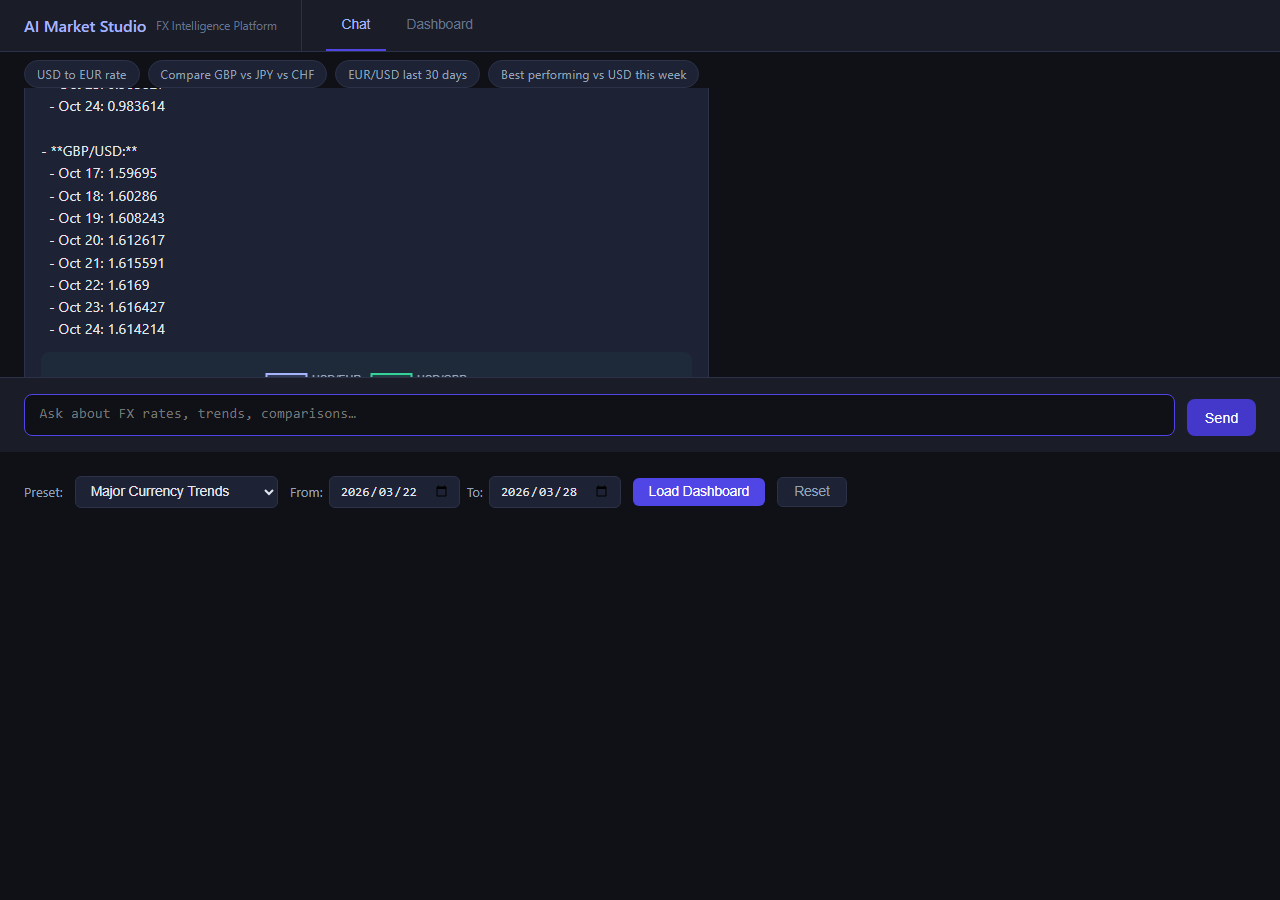
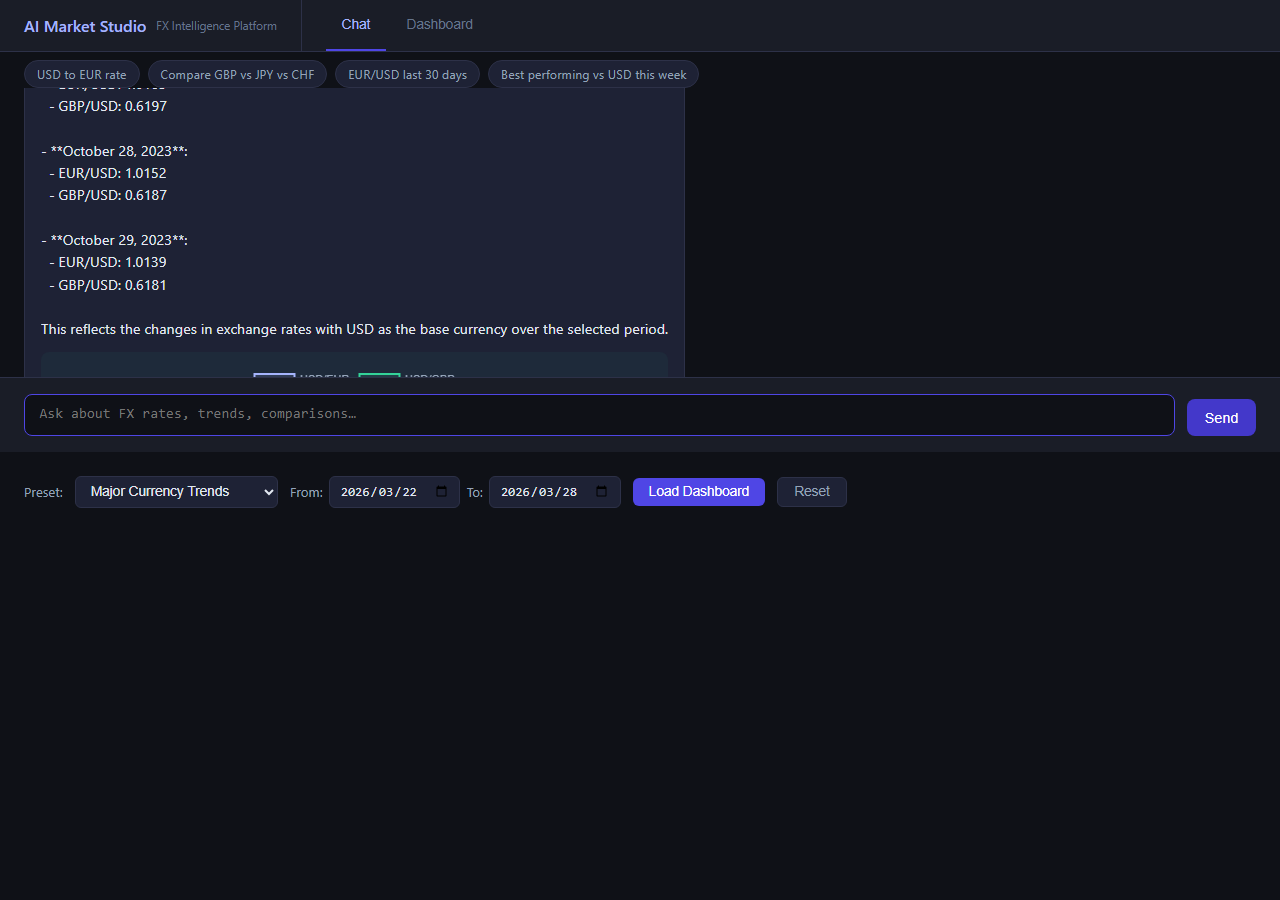
Docs: update Feature 04 example to 5-day query, refresh screenshot

Changed region(s): [[0.0312, 0.0933, 0.5625, 0.4356], [0.0312, 0.0933, 0.125, 0.1244]]

diff --git a/README.md b/README.md
@@ -23,7 +23,7 @@ A conversational FX market data platform. Ask natural-language questions about e
 - Toggle between live API and mock data via env var
 
 ### Feature 04 — Conversational Dashboard Generation
-- Ask in natural language: *"Show me EUR/USD and GBP/USD trend for the last 7 days"*
+- Ask in natural language: *"Show me EUR/USD and GBP/USD trend for the last 5 days"*
 - LLM detects chart/visualize/show intent and calls the `generate_dashboard` tool
 - Inline Chart.js chart renders directly inside the chat bubble — no tab switching
 - Supports line trend (time series) and bar comparison chart types
